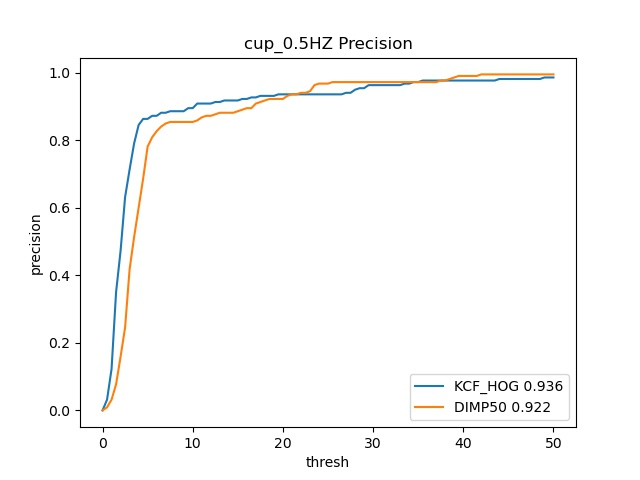
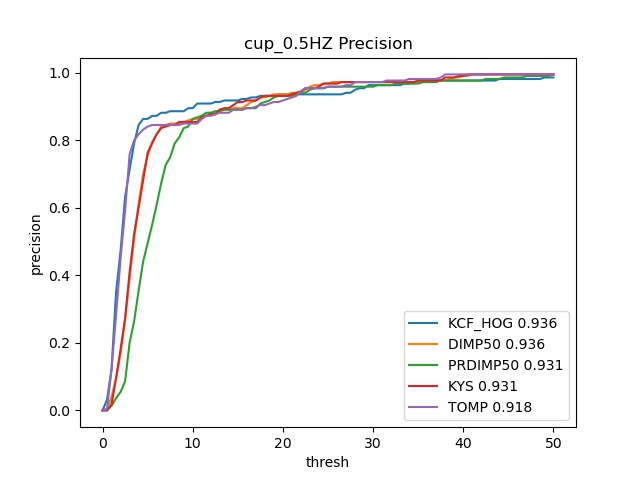
search zone visualization bug resolved

Changed region(s): [[0.1562, 0.125, 0.875, 0.875], [0.625, 0.6562, 0.875, 0.875]]

diff --git a/examples/compare_different_cf_tracker.py b/examples/compare_different_cf_tracker.py
@@ -48,10 +48,10 @@ if __name__ == '__main__':
         # tracker_csk=PyTracker(img_dir,tracker_type='CSK',dataset_config=dataset_config)
         # tracker_kcf_cn=PyTracker(img_dir,tracker_type='KCF_CN',dataset_config=dataset_config)
         # tracker_eco=PyTracker(img_dir,tracker_type='ECO',dataset_config=dataset_config)
-        # tracker_prdimp50=PyTracker(img_dir,tracker_type='PRDIMP50',dataset_config=dataset_config)
-        # tracker_kys=PyTracker(img_dir,tracker_type='KYS',dataset_config=dataset_config)
+        tracker_prdimp50=PyTracker(img_dir,tracker_type='PRDIMP50',dataset_config=dataset_config)
+        tracker_kys=PyTracker(img_dir,tracker_type='KYS',dataset_config=dataset_config)
         tracker_tomp=PyTracker(img_dir,tracker_type='TOMP',dataset_config=dataset_config)
-        # tracker_dimp50=PyTracker(img_dir,tracker_type='DIMP50',dataset_config=dataset_config)
+        tracker_dimp50=PyTracker(img_dir,tracker_type='DIMP50',dataset_config=dataset_config)
         # tracker_eco_hc=PyTracker(img_dir,tracker_type='ECO-HC',dataset_config=dataset_config)
         # tracker_cn=PyTracker(img_dir,tracker_type='CN',dataset_config=dataset_config)
 
@@ -61,35 +61,35 @@ if __name__ == '__main__':
         #     viot_results[data_name]['kcf_gray_preds'].append(list(kcf_gray_pred.astype(np.int)))
         # print('kcf gray done!')
 
-        # dimp50_preds=tracker_dimp50.tracking()
-        # viot_results[data_name]['tracker_dimp50_preds'] = []
-        # for dimp50_pred in dimp50_preds:
-        #     viot_results[data_name]['tracker_dimp50_preds'].append(list(dimp50_pred.astype(np.int)))
-        # print('dimp50 done!')
+        dimp50_preds=tracker_dimp50.tracking()
+        viot_results[data_name]['tracker_dimp50_preds'] = []
+        for dimp50_pred in dimp50_preds:
+            viot_results[data_name]['tracker_dimp50_preds'].append(list(dimp50_pred.astype(np.int)))
+        print('dimp50 done!')
 
         # kys_preds=tracker_kys.tracking()
         # viot_results[data_name]['tracker_kys_preds'] = []
         # for kys_pred in kys_preds:
         #     viot_results[data_name]['tracker_kys_preds'].append(list(kys_pred.astype(np.int)))
         # print('kys done!')
-
-        tomp_preds=tracker_tomp.tracking()
-        viot_results[data_name]['tracker_tomp_preds'] = []
-        for tomp_pred in tomp_preds:
-            viot_results[data_name]['tracker_tomp_preds'].append(list(tomp_pred.astype(np.int)))
-        print('tomp done!')
-
+        #
+        # tomp_preds=tracker_tomp.tracking()
+        # viot_results[data_name]['tracker_tomp_preds'] = []
+        # for tomp_pred in tomp_preds:
+        #     viot_results[data_name]['tracker_tomp_preds'].append(list(tomp_pred.astype(np.int)))
+        # print('tomp done!')
+        #
         # prdimp50_preds=tracker_prdimp50.tracking()
         # viot_results[data_name]['tracker_prdimp50_preds'] = []
         # for prdimp50_pred in prdimp50_preds:
         #     viot_results[data_name]['tracker_prdimp50_preds'].append(list(prdimp50_pred.astype(np.int)))
         # print('prdimp50 done!')
-
-        kcf_hog_preds=tracker_kcf_hog.tracking()
-        viot_results[data_name]['kcf_hog_preds'] = []
-        for kcf_hog_pred in kcf_hog_preds:
-            viot_results[data_name]['kcf_hog_preds'].append(list(kcf_hog_pred.astype(np.int)))
-        print('kcf hog done!')
+        #
+        # kcf_hog_preds=tracker_kcf_hog.tracking()
+        # viot_results[data_name]['kcf_hog_preds'] = []
+        # for kcf_hog_pred in kcf_hog_preds:
+        #     viot_results[data_name]['kcf_hog_preds'].append(list(kcf_hog_pred.astype(np.int)))
+        # print('kcf hog done!')
 
         # bacf_preds=tracker_bacf.tracking()
         # viot_results[data_name]['bacf_preds'] = []
@@ -162,9 +162,9 @@ if __name__ == '__main__':
         # _,precisions_csk=get_thresh_precision_pair(gts,csk_preds)
         # _,precisions_kcf_cn=get_thresh_precision_pair(gts,kcf_cn_preds)
         # _,precisions_eco=get_thresh_precision_pair(gts,eco_preds)
-        # _,precisions_dimp50=get_thresh_precision_pair(gts,dimp50_preds)
-        # _,precisions_prdimp50=get_thresh_precision_pair(gts,prdimp50_preds)
-        # _,precisions_kys=get_thresh_precision_pair(gts,kys_preds)
+        _,precisions_dimp50=get_thresh_precision_pair(gts,dimp50_preds)
+        _,precisions_prdimp50=get_thresh_precision_pair(gts,prdimp50_preds)
+        _,precisions_kys=get_thresh_precision_pair(gts,kys_preds)
         _,precisions_tomp=get_thresh_precision_pair(gts,tomp_preds)
         # _,precisions_eco_hc=get_thresh_precision_pair(gts,eco_hc_preds)
         # _,precisions_cn=get_thresh_precision_pair(gts,cn_preds)
@@ -180,9 +180,9 @@ if __name__ == '__main__':
         # plt.plot(threshes,precisions_csk,label='CSK '+str(precisions_csk[idx20])[:5])
         # plt.plot(threshes,precisions_kcf_cn,label='KCF_CN '+str(precisions_kcf_cn[idx20])[:5])
         # plt.plot(threshes,precisions_eco,label='ECO '+str(precisions_eco[idx20])[:5])
-        # plt.plot(threshes,precisions_dimp50,label='DIMP50 '+str(precisions_dimp50[idx20])[:5])
-        # plt.plot(threshes,precisions_prdimp50,label='PRDIMP50 '+str(precisions_prdimp50[idx20])[:5])
-        # plt.plot(threshes,precisions_kys,label='KYS '+str(precisions_kys[idx20])[:5])
+        plt.plot(threshes,precisions_dimp50,label='DIMP50 '+str(precisions_dimp50[idx20])[:5])
+        plt.plot(threshes,precisions_prdimp50,label='PRDIMP50 '+str(precisions_prdimp50[idx20])[:5])
+        plt.plot(threshes,precisions_kys,label='KYS '+str(precisions_kys[idx20])[:5])
         plt.plot(threshes,precisions_tomp,label='TOMP '+str(precisions_tomp[idx20])[:5])
         # plt.plot(threshes,precisions_eco_hc,label='ECO-HC '+str(precisions_eco_hc[idx20])[:5])
         # plt.plot(threshes,precisions_cn,label='CN '+str(precisions_cn[idx20])[:5])
@@ -205,17 +205,17 @@ if __name__ == '__main__':
         # _,successes_csk=get_thresh_success_pair(gts,csk_preds)
         # _,successes_kcf_cn=get_thresh_success_pair(gts,kcf_cn_preds)
         # _,successes_eco=get_thresh_success_pair(gts,eco_preds)
-        # _,successes_dimp50=get_thresh_success_pair(gts,dimp50_preds)
-        # _,successes_prdimp50=get_thresh_success_pair(gts,prdimp50_preds)
-        # _,successes_kys=get_thresh_success_pair(gts,kys_preds)
+        _,successes_dimp50=get_thresh_success_pair(gts,dimp50_preds)
+        _,successes_prdimp50=get_thresh_success_pair(gts,prdimp50_preds)
+        _,successes_kys=get_thresh_success_pair(gts,kys_preds)
         _,successes_tomp=get_thresh_success_pair(gts,tomp_preds)
         # _,successes_eco_hc=get_thresh_success_pair(gts,eco_hc_preds)
         # _,successes_cn=get_thresh_success_pair(gts,cn_preds)
         # plt.plot(threshes,successes_kcf_cn,label='KCF_CN '+str(calAUC(successes_kcf_cn))[:5])
         # plt.plot(threshes,successes_eco,label='ECO '+str(calAUC(successes_eco))[:5])
-        # plt.plot(threshes,successes_dimp50,label='DIMP50 '+str(calAUC(successes_dimp50))[:5])
-        # plt.plot(threshes,successes_prdimp50,label='PRDIMP50 '+str(calAUC(successes_prdimp50))[:5])
-        # plt.plot(threshes,successes_kys,label='KYS '+str(calAUC(successes_kys))[:5])
+        plt.plot(threshes,successes_dimp50,label='DIMP50 '+str(calAUC(successes_dimp50))[:5])
+        plt.plot(threshes,successes_prdimp50,label='PRDIMP50 '+str(calAUC(successes_prdimp50))[:5])
+        plt.plot(threshes,successes_kys,label='KYS '+str(calAUC(successes_kys))[:5])
         plt.plot(threshes,successes_tomp,label='TOMP '+str(calAUC(successes_tomp))[:5])
         # plt.plot(threshes,successes_kcf_gray, label='KCF_GRAY '+str(calAUC(successes_kcf_gray))[:5])
         plt.plot(threshes,successes_kcf_hog,label='KCF_HOG '+str(calAUC(successes_kcf_hog))[:5])

diff --git a/pytracking/tracker/dimp/dimp.py b/pytracking/tracker/dimp/dimp.py
@@ -91,7 +91,7 @@ class DiMP(BaseTracker):
         return out
 
 
-    def track(self, image, info: dict = None) -> dict:
+    def track(self, image, FI: list = None, do_learning=True, info: dict = None) -> dict:
         self.debug_info = {}
 
         self.frame_num += 1
@@ -103,7 +103,7 @@ class DiMP(BaseTracker):
         # ------- LOCALIZATION ------- #
 
         # Extract backbone features
-        backbone_feat, sample_coords, im_patches = self.extract_backbone_features(im, self.get_centered_sample_pos(),
+        backbone_feat, sample_coords, im_patches = self.extract_backbone_features(im, self.get_centered_sample_pos(FI=FI),
                                                                       self.target_scale * self.params.scale_factors,
                                                                       self.img_sample_sz)
         # Extract classification features
@@ -131,20 +131,21 @@ class DiMP(BaseTracker):
 
 
         # ------- UPDATE ------- #
+        if do_learning:
 
-        update_flag = flag not in ['not_found', 'uncertain']
-        hard_negative = (flag == 'hard_negative')
-        learning_rate = self.params.get('hard_negative_learning_rate', None) if hard_negative else None
+            update_flag = flag not in ['not_found', 'uncertain']
+            hard_negative = (flag == 'hard_negative')
+            learning_rate = self.params.get('hard_negative_learning_rate', None) if hard_negative else None
 
-        if update_flag and self.params.get('update_classifier', False):
-            # Get train sample
-            train_x = test_x[scale_ind:scale_ind+1, ...]
+            if update_flag and self.params.get('update_classifier', False):
+                # Get train sample
+                train_x = test_x[scale_ind:scale_ind+1, ...]
 
-            # Create target_box and label for spatial sample
-            target_box = self.get_iounet_box(self.pos, self.target_sz, sample_pos[scale_ind,:], sample_scales[scale_ind])
+                # Create target_box and label for spatial sample
+                target_box = self.get_iounet_box(self.pos, self.target_sz, sample_pos[scale_ind,:], sample_scales[scale_ind])
 
-            # Update the classifier model
-            self.update_classifier(train_x, target_box, learning_rate, s[scale_ind,...])
+                # Update the classifier model
+                self.update_classifier(train_x, target_box, learning_rate, s[scale_ind,...])
 
         # Set the pos of the tracker to iounet pos
         if self.params.get('use_iou_net', True) and flag != 'not_found' and hasattr(self, 'pos_iounet'):
@@ -159,6 +160,8 @@ class DiMP(BaseTracker):
         sfactor = sfactor.cpu().detach().numpy()
         self.crop_size = self.score.shape*sfactor
         self.crop_size = (int(self.crop_size[0]), int(self.crop_size[1]))
+        self.trans = translation_vec.cpu().detach().numpy()
+        
         max_score = torch.max(score_map).item()
 
         # Visualize and set debug info
@@ -190,9 +193,15 @@ class DiMP(BaseTracker):
         sample_scales = ((sample_coord[:,2:] - sample_coord[:,:2]) / self.img_sample_sz).prod(dim=1).sqrt()
         return sample_pos, sample_scales
 
-    def get_centered_sample_pos(self):
+    def get_centered_sample_pos(self, FI=None):
         """Get the center position for the new sample. Make sure the target is correctly centered."""
-        return self.pos + ((self.feature_sz + self.kernel_size) % 2) * self.target_scale * \
+
+        if FI is None:
+            pos = self.pos
+        else:
+            pos = torch.Tensor([ FI[1]+FI[3]/2, FI[0]+FI[2]/2])
+
+        return pos + ((self.feature_sz + self.kernel_size) % 2) * self.target_scale * \
                self.img_support_sz / (2*self.feature_sz)
 
     def classify_target(self, sample_x: TensorList):

diff --git a/examples/pytracker.py b/examples/pytracker.py
@@ -224,6 +224,8 @@ class PyTracker:
         else:
             raise NotImplementedError
 
+        self.viot=False
+
 
     def getETHTracker(self, name, params):
         param_module = importlib.import_module('pytracking.parameter.{}.{}'.format(name, params))
@@ -252,8 +254,12 @@ class PyTracker:
 
     def doTrack(self, current_frame, verbose, est_loc, do_learning, viot=False):
     	if self.ethTracker:
-    	    out = self.tracker.track(current_frame)
-    	    bbox = [int(s) for s in out['target_bbox']]
+            if viot:
+                out = self.tracker.track(current_frame, est_loc, do_learning=do_learning)
+            else:
+        	    out = self.tracker.track(current_frame)
+
+            bbox = [int(s) for s in out['target_bbox']]
     	else:
     	    if viot:
     	        bbox=self.tracker.update(current_frame,vis=verbose,FI=est_loc, \
@@ -284,7 +290,7 @@ class PyTracker:
         ## equal to 66 deg.
         kin = CameraKinematics(self.interp_factor, init_frame.shape[1]/2, init_frame.shape[0]/2,\
                                 w=init_frame.shape[1], h=init_frame.shape[0],\
-                                hfov=self.fov, vis=False)
+                                hfov=self.fov, vis=True)
 
         psr0=-1
         psr=-1
@@ -300,14 +306,17 @@ class PyTracker:
                 if stop:
                     bbox=last_bbox
                 else:
-                    bbox=self.doTrack(current_frame, verbose, est_loc, psr/psr0>self.ratio_thresh and not stop, viot=False)
+                    bbox=self.doTrack(current_frame, verbose, est_loc, psr/psr0>self.ratio_thresh and not stop, viot=self.viot)
                     last_bbox=bbox
 
                 stop=bbox[2] > width or bbox[3] > height
 
                 ## evaluating tracked target
                 apce = APCE(self.tracker.score)
-                psr = PSR(self.tracker.score)
+                if self.ethTracker:
+                    psr = apce
+                else:
+                    psr = PSR(self.tracker.score)
                 F_max = np.max(self.tracker.score)
 
                 if psr0 is -1: psr0=psr
@@ -334,7 +343,7 @@ class PyTracker:
                     score = (score * 255).astype(np.uint8)
                     # score = 255 - score
                     score = cv2.applyColorMap(score, cv2.COLORMAP_JET)
-                    center = (int(x1+w/2),int(y1+h/2))
+                    center = (int(x1+w/2-self.tracker.trans[1]),int(y1+h/2-self.tracker.trans[0]))
                     x0,y0=center
                     x0=np.clip(x0,0,width-1)
                     y0=np.clip(y0,0,height-1)
@@ -357,7 +366,11 @@ class PyTracker:
                     crop_img = current_frame[ymin:ymax, xmin:xmax]
                     score_map = cv2.addWeighted(crop_img, 0.6, score, 0.4, 0)
                     current_frame[ymin:ymax, xmin:xmax] = score_map
-                    show_frame=cv2.rectangle(current_frame, (int(x1), int(y1)), (int(x1 + w), int(y1 + h)), (255, 0, 0),1)
+                    show_frame=cv2.rectangle(current_frame, (int(x1), int(y1)), (int(x1 + w), int(y1 + h)), (255, 0, 0),2)
+
+                    if self.viot and not psr/psr0>self.ratio_thresh:
+                        show_frame = cv2.line(show_frame, (int(x1), int(y1)), (int(x1 + w), int(y1 + h)), (0, 0, 255), 2)
+                        show_frame = cv2.line(show_frame, (int(x1+w), int(y1)), (int(x1), int(y1 + h)), (0, 0, 255), 2)
 
                     # cv2.putText(show_frame, 'APCE:' + str(apce)[:5], (0, 250), cv2.FONT_HERSHEY_COMPLEX, 2,
                     #             (0, 0, 255), 5)

diff --git a/examples/viotdataset_config.py b/examples/viotdataset_config.py
@@ -27,22 +27,15 @@ class VIOTDatasetConfig:
         # "cup_1.8HZ":[1,357],
         # "cup_2.1HZ":[1,465],
         # "cup_3.2HZ":[1,254],
-        # "park_mavic_1":[880,1005],
-        # "park_mavic_2":[45,480],
-        # "park_mavic_2":[480,720],
-        # "park_mavic_3":[1,370],
-        # "park_mavic_3":[370,660],
+        "park_mavic_1":[1,1005],
+        # "park_mavic_2":[1,945],
         # "park_mavic_3":[1,2022],
-        # "park_mavic_4":[1,310],
         # "park_mavic_4":[1,1906],
-        # "park_mavic_5":[835,1200],
         # "park_mavic_5":[1,1697],
-        # "park_mavic_6":[145,600],
         # "park_mavic_6":[1,1137],
-        # "park_mavic_7":[1,400],
-        "park_mavic_7":[1,915],
-        "soccerfield_mavic_3":[660,1104],
-        "soccerfield_mavic_4":[350,1297]
+        # "park_mavic_7":[1,915],
+        # "soccerfield_mavic_3":[1,1104],
+        # "soccerfield_mavic_4":[1,1297]
     }
 
     params={
@@ -72,7 +65,7 @@ class VIOTDatasetConfig:
                "soccerfield_mavic_4":[0.5, 0.3]},
         "DIMP50":{"cup_0.5HZ":[0.5, 1], "cup_0.9HZ":[0.5, 1], "cup_1.1HZ":[0.5, 1], \
                   "cup_1.5HZ":[0.5, 1], "cup_1.8HZ":[0.5, 1], "cup_2.1HZ":[0.5, 1], \
-                  "cup_3.2HZ":[0.5, 1], "park_mavic_1":[0.5, 0.3], "park_mavic_2":[0.5, 0.3], \
+                  "cup_3.2HZ":[0.5, 1], "park_mavic_1":[0.3, 0.3], "park_mavic_2":[0.5, 0.3], \
                   "park_mavic_3":[0.5, 0.3], "park_mavic_4":[0.5, 0.3], "park_mavic_5":[0.5, 0.3], \
                   "park_mavic_6":[0.5, 0.3], "park_mavic_7":[0.5, 0.3], "soccerfield_mavic_3":[0.5, 0.3], \
                   "soccerfield_mavic_4":[0.5, 0.3]},

diff --git a/kinematics/camera_kinematics.py b/kinematics/camera_kinematics.py
@@ -139,6 +139,7 @@ class CameraKinematics:
 
             ## calculate new estimate for target's direction vector
             self._inertia_dir_after = self._inertia_dir_before + self._diff
+            print("diff ", self._diff)
 
             ## ensure direction vector always has a length of 1
             self._inertia_dir_after = self._inertia_dir_after/np.linalg.norm(self._inertia_dir_after)
